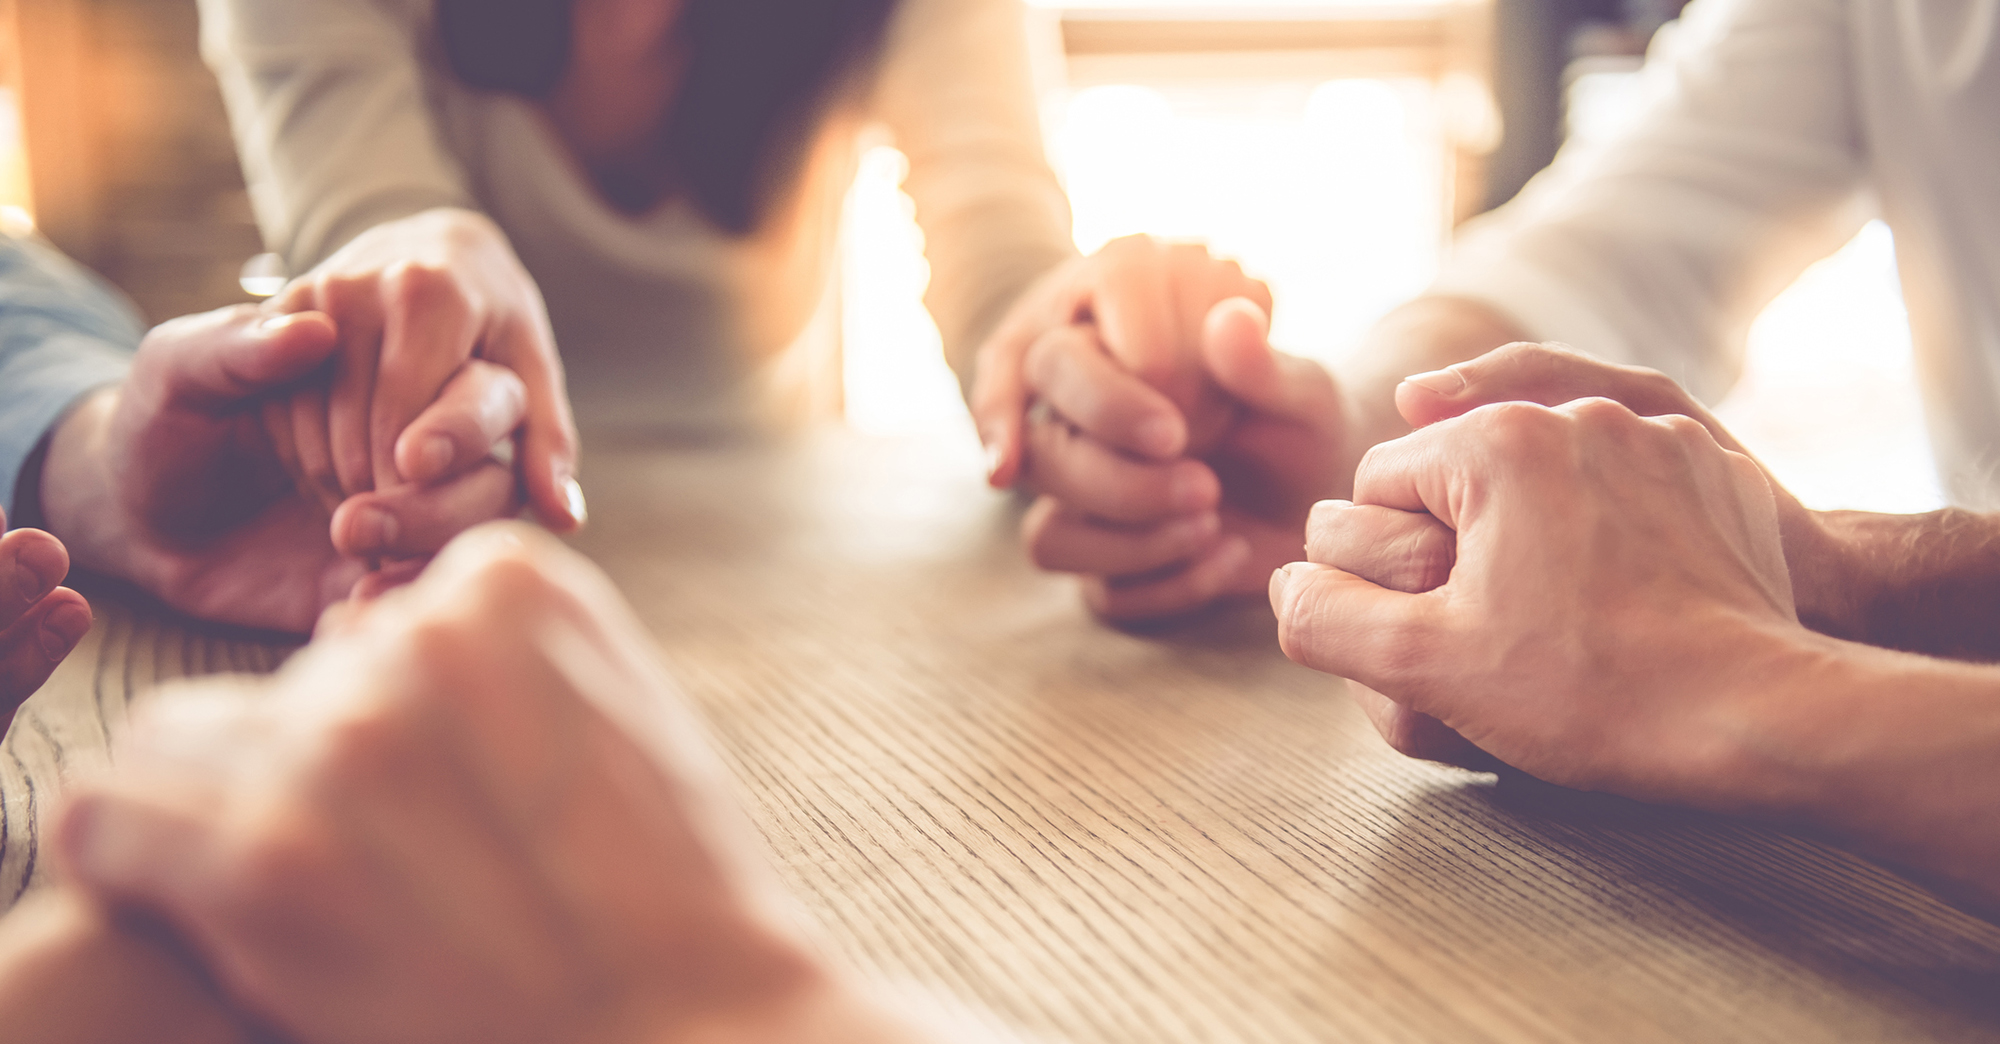
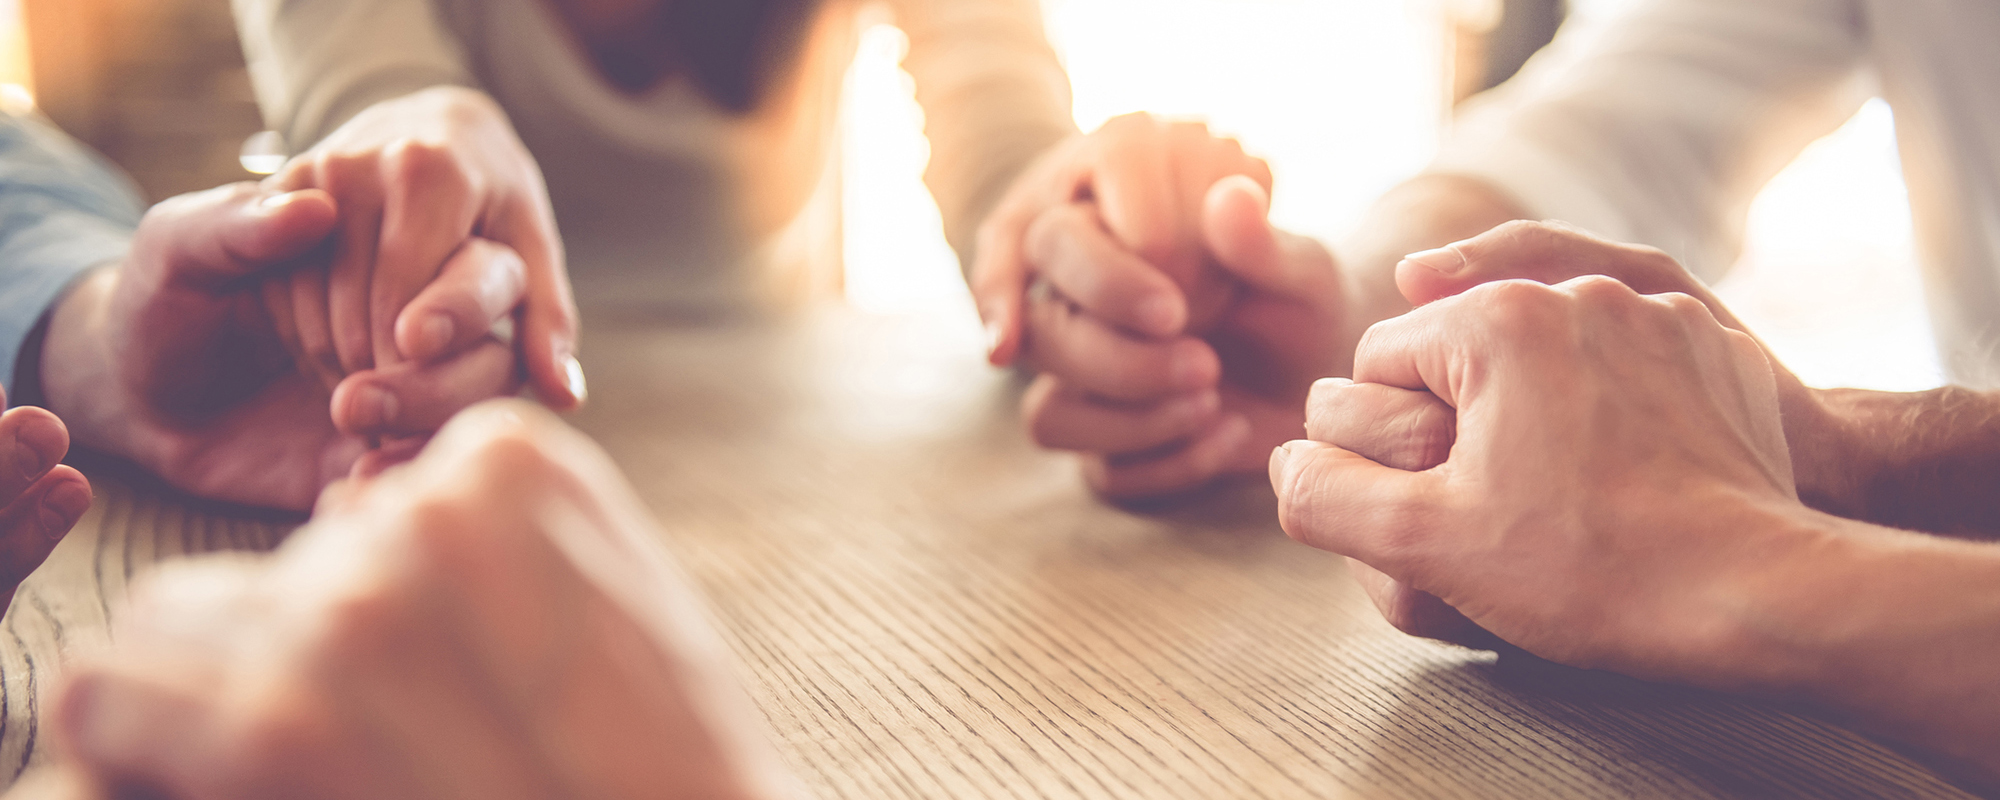
12

diff --git a/hsrf.css b/hsrf.css
@@ -60,7 +60,7 @@
 .carousel-inner img {
    width: 100%;
    margin: auto;
-   filter: grayscale(90%);
+   
  }
  .carousel-caption h3 {
      color: #fff !important;
